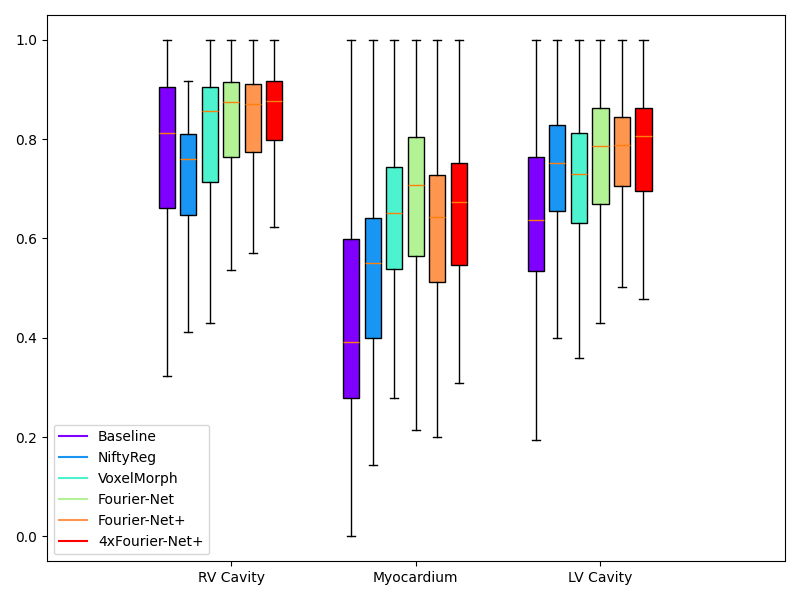
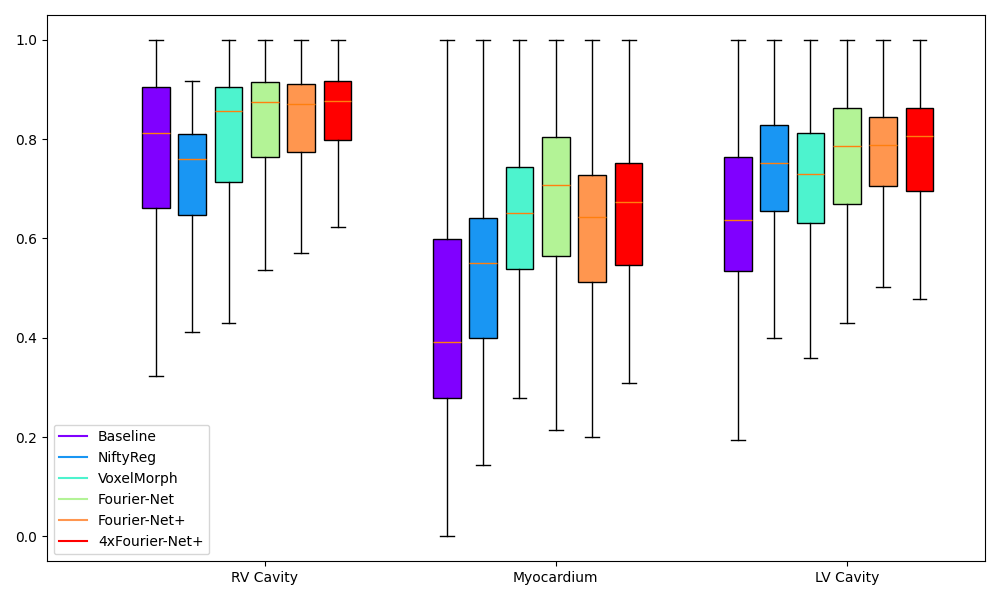
Optimized parameters for dice boxplots and generated boxplot again.

diff --git a/2D_CMR_Registration/CalculateAllDiceScores.py b/2D_CMR_Registration/CalculateAllDiceScores.py
@@ -23,6 +23,9 @@ parser.add_argument("--FT_size_y", type=int,
 parser.add_argument("--diffeo", type=int,
                     dest="diffeo", default=0, 
                     help="choose whether to use a diffeomorphic transform (1) or not (0)")
+parser.add_argument("--domain_sim", type=int,
+                    dest="domain_sim", default=0,
+                    help="choose which domain the similarity loss should be applied: image space (0) or k-space (1)")
 parser.add_argument("--mode", type=int, dest="mode", default=0,
                     help="choose dataset mode: fully sampled (0), 4x accelerated (1), 8x accelerated (2) or 10x accelerated (3)")
 opt = parser.parse_args()
@@ -31,6 +34,7 @@ start_channel = opt.start_channel
 FT_size = [opt.FT_size_x,opt.FT_size_y]
 mode = opt.mode
 diffeo = opt.diffeo
+domain_sim = opt.domain_sim
 
 dataset = 'ACDC'
 # load ACDC test data
@@ -58,33 +62,36 @@ modelpath_voxelmorph = path_voxelmorph + natsorted(listdir(path_voxelmorph))[-1]
 model_voxelmorph.load_state_dict(torch.load(modelpath_voxelmorph))
 model_voxelmorph.eval()
 
-path_f_net      = './ModelParameters-{}/Model_{}_Diffeo_{}_Loss_{}_Chan_{}_FT_{}-{}_Smth_{}_LR_{}_Mode_{}_Pth/'.format(dataset,0,0,1,start_channel,FT_size[0],FT_size[1],0.01,0.0001,mode)
-modelpath_f_net = path_f_net + natsorted(listdir(path_f_net))[-1]
+path_f_net      = './ModelParameters-{}/Model_{}_Diffeo_{}_Loss_{}_Chan_{}_FT_{}-{}_Smth_{}_LR_{}_Mode_{}_Sim_{}_Pth/'.format(dataset,0,0,1,start_channel,FT_size[0],FT_size[1],0.01,0.0001,mode,domain_sim)
+#modelpath_f_net = path_f_net + natsorted(listdir(path_f_net))[-1]
+modelpath_f_net = [f.path for f in scandir(path_f_net) if f.is_file() and not (f.name.find('Epoch_0006') == -1)][0]
 model_f_net.load_state_dict(torch.load(modelpath_f_net))
 model_f_net.eval()
 
-path_f_net_plus      = './ModelParameters-{}/Model_{}_Diffeo_{}_Loss_{}_Chan_{}_FT_{}-{}_Smth_{}_LR_{}_Mode_{}_Pth/'.format(dataset,1,0,1,start_channel,FT_size[0],FT_size[1],0.01,0.0001,mode)
-modelpath_f_net_plus = path_f_net_plus + natsorted(listdir(path_f_net_plus))[-1]
+path_f_net_plus      = './ModelParameters-{}/Model_{}_Diffeo_{}_Loss_{}_Chan_{}_FT_{}-{}_Smth_{}_LR_{}_Mode_{}_Sim_{}_Pth/'.format(dataset,1,0,1,start_channel,FT_size[0],FT_size[1],0.01,0.0001,mode,domain_sim)
+#modelpath_f_net_plus = path_f_net_plus + natsorted(listdir(path_f_net_plus))[-1]
+modelpath_f_net_plus = [f.path for f in scandir(path_f_net_plus) if f.is_file() and not (f.name.find('Epoch_0006') == -1)][0]
 model_f_net_plus.load_state_dict(torch.load(modelpath_f_net_plus))
 model_f_net_plus.eval()
 
-path_f_net_plus_cascade      = './ModelParameters-{}/Model_{}_Diffeo_{}_Loss_{}_Chan_{}_FT_{}-{}_Smth_{}_LR_{}_Mode_{}_Pth/'.format(dataset,2,0,1,start_channel,FT_size[0],FT_size[1],0.01,0.0001,mode)
-modelpath_f_net_plus_cascade = path_f_net_plus_cascade + natsorted(listdir(path_f_net_plus_cascade))[-1]
+path_f_net_plus_cascade      = './ModelParameters-{}/Model_{}_Diffeo_{}_Loss_{}_Chan_{}_FT_{}-{}_Smth_{}_LR_{}_Mode_{}_Sim_{}_Pth/'.format(dataset,2,0,1,start_channel,FT_size[0],FT_size[1],0.01,0.0001,mode,domain_sim)
+#modelpath_f_net_plus_cascade = path_f_net_plus_cascade + natsorted(listdir(path_f_net_plus_cascade))[-1]
+modelpath_f_net_plus_cascade = [f.path for f in scandir(path_f_net_plus_cascade) if f.is_file() and not (f.name.find('Epoch_0004') == -1)][0]
 model_f_net_plus_cascade.load_state_dict(torch.load(modelpath_f_net_plus_cascade))
 model_f_net_plus_cascade.eval()
 
 if diffeo == 1:
-    path_f_net_diff      = './ModelParameters-{}/Model_{}_Diffeo_{}_Loss_{}_Chan_{}_FT_{}-{}_Smth_{}_LR_{}_Mode_{}_Pth/'.format(dataset,0,1,1,start_channel,FT_size[0],FT_size[1],0.01,0.0001,mode)
+    path_f_net_diff      = './ModelParameters-{}/Model_{}_Diffeo_{}_Loss_{}_Chan_{}_FT_{}-{}_Smth_{}_LR_{}_Mode_{}_Sim_{}_Pth/'.format(dataset,0,1,1,start_channel,FT_size[0],FT_size[1],0.01,0.0001,mode,domain_sim)
     modelpath_f_net_diff = path_f_net_diff + natsorted(listdir(path_f_net_diff))[-1]
     model_f_net_diff.load_state_dict(torch.load(modelpath_f_net_diff))
     model_f_net_diff.eval()
 
-    path_f_net_plus_diff      = './ModelParameters-{}/Model_{}_Diffeo_{}_Loss_{}_Chan_{}_FT_{}-{}_Smth_{}_LR_{}_Mode_{}_Pth/'.format(dataset,1,1,1,start_channel,FT_size[0],FT_size[1],0.01,0.0001,mode)
+    path_f_net_plus_diff      = './ModelParameters-{}/Model_{}_Diffeo_{}_Loss_{}_Chan_{}_FT_{}-{}_Smth_{}_LR_{}_Mode_{}_Sim_{}_Pth/'.format(dataset,1,1,1,start_channel,FT_size[0],FT_size[1],0.01,0.0001,mode,domain_sim)
     modelpath_f_net_plus_diff = path_f_net_plus_diff + natsorted(listdir(path_f_net_plus_diff))[-1]
     model_f_net_plus_diff.load_state_dict(torch.load(modelpath_f_net_plus_diff))
     model_f_net_plus_diff.eval()
 
-    path_f_net_plus_cascade_diff      = './ModelParameters-{}/Model_{}_Diffeo_{}_Loss_{}_Chan_{}_FT_{}-{}_Smth_{}_LR_{}_Mode_{}_Pth/'.format(dataset,2,1,1,start_channel,FT_size[0],FT_size[1],0.01,0.0001,mode)
+    path_f_net_plus_cascade_diff      = './ModelParameters-{}/Model_{}_Diffeo_{}_Loss_{}_Chan_{}_FT_{}-{}_Smth_{}_LR_{}_Mode_{}_Sim_{}_Pth/'.format(dataset,2,1,1,start_channel,FT_size[0],FT_size[1],0.01,0.0001,mode,domain_sim)
     modelpath_f_net_plus_cascade_diff = path_f_net_plus_cascade_diff + natsorted(listdir(path_f_net_plus_cascade_diff))[-1]
     model_f_net_plus_cascade_diff.load_state_dict(torch.load(modelpath_f_net_plus_cascade_diff))
     model_f_net_plus_cascade_diff.eval()

diff --git a/2D_CMR_Registration/Boxplots_DiceScores.py b/2D_CMR_Registration/Boxplots_DiceScores.py
@@ -9,32 +9,24 @@ import warnings
 warnings.filterwarnings("ignore")
 
 parser = ArgumentParser()
-parser.add_argument("--start_channel", type=int, dest="start_channel", default=8,
-                    help="number of start channels")
-parser.add_argument("--FT_size_x", type=int,
-                    dest="FT_size_x", default=24,
-                    help="choose size x of FT crop: Should be smaller than 40.")
-parser.add_argument("--FT_size_y", type=int,
-                    dest="FT_size_y", default=24,
-                    help="choose size y of FT crop: Should be smaller than 84.")
+parser.add_argument("--diffeo", type=int,
+                    dest="diffeo", default=0, 
+                    help="choose whether to use a diffeomorphic transform (1) or not (0)")
 parser.add_argument("--mode", type=int, dest="mode", default='0',
                     help="choose dataset mode: fully sampled (0), 4x accelerated (1), 8x accelerated (2) or 10x accelerated (3)")
 opt = parser.parse_args()
 
-start_channel = opt.start_channel
-FT_size = [opt.FT_size_x,opt.FT_size_y]
 mode = opt.mode
+diffeo = opt.diffeo
 
 dataset = 'ACDC'
-input_shape = [216,256]
-diffeo = 0
-device = torch.device("cuda" if torch.cuda.is_available() else "cpu") 
-transform = SpatialTransform().to(device)
-transform_voxelmorph = SpatialTransformer(input_shape, mode = 'nearest').to(device)
 csv_name = './TestResults-{}/DiceScores_Mode_{}.csv'.format(dataset,mode)
 
 # init Dice score 6 methods (9 with Diff-versions), 4 labels and 224 data points
-DICE_test = np.zeros([6,4,224]) #9
+if diffeo == 1:
+    DICE_test = np.zeros([9,4,224])
+else:
+    DICE_test = np.zeros([6,4,224])    
 
 # get data for the models
 with open(csv_name,'r') as csvfile: 
@@ -47,12 +39,19 @@ with open(csv_name,'r') as csvfile:
 
 # create labels for the x axis
 labels = ['RV Cavity', 'Myocardium', 'LV Cavity'] #'Background', 
-# create legend 
-legend = ['Baseline','NiftyReg','VoxelMorph','Fourier-Net','Fourier-Net+','4xFourier-Net+'] #,'Diff-Fourier-Net','Diff-Fourier-Net+','Diff-4xFourier-Net+'
+
+# create legend and init offsets so that plots do not overlap
+if diffeo == 1:
+    legend = ['Baseline','NiftyReg','VoxelMorph','Fourier-Net','Fourier-Net+','4xFourier-Net+','Diff-Fourier-Net','Diff-Fourier-Net+','Diff-4xFourier-Net+']
+    offsets = np.arange(start=-0.9,stop=0.9,step=1.8/DICE_test.shape[0])
+    width = 0.175
+else:
+    legend = ['Baseline','NiftyReg','VoxelMorph','Fourier-Net','Fourier-Net+','4xFourier-Net+']    
+    offsets = np.arange(start=-0.75,stop=0.75,step=1.5/DICE_test.shape[0])
+    width = 0.19
+
 # create path to save the boxplot to
 save_path = '/home/jmeyer/storage/students/janmeyer_711878/Master-Arbeit/Thesis/Images/Boxplot_DiceScores_FullySampled.png'
-# init offsets so that plots do not overlap
-offsets = np.arange(start=-0.9,stop=0.9,step=1.8/DICE_test.shape[0])
-#print('offsets: ',offsets)
+
 # create boxplot for Dice scores (without background)
-create_boxplot(savename=save_path, data=DICE_test[:,1:4,:], labels=labels, legend=legend, figure_size=(10, 6), offsets=offsets, width=0.175)
+create_boxplot(savename=save_path, data=DICE_test[:,1:4,:], labels=labels, legend=legend, figure_size=(10, 6), offsets=offsets, width=width)

diff --git a/2D_CMR_Registration/Functions.py b/2D_CMR_Registration/Functions.py
@@ -801,7 +801,7 @@ def log_TrainTest(wandb, model, model_name, diffeo_name, dataset, FT_size, learn
             #wandb.log_model(path=model_dir, name=modelname)
 
             # save image
-            sample_path = join(model_dir_png, 'Epoch_{:04d}-images.jpg'.format(epoch))
+            sample_path = join(model_dir_png, 'Epoch_{:04d}-images.jpg'.format(epoch+1))
             save_flow(mov_img, fix_img, warped_mov_img, grid.permute(0, 3, 1, 2), sample_path)
             if dataset == 'CMRxRecon':
                 print("epoch {:d}/{:d} - SSIM_val: {:.5f}, MSE_val: {:.6f}".format(epoch+1, epochs, Mean_SSIM, Mean_MSE))
@@ -810,7 +810,7 @@ def log_TrainTest(wandb, model, model_name, diffeo_name, dataset, FT_size, learn
 
             if earlyStop:    
                 # stop training if metrics stop improving for three epochs (only on the first run)
-                if counter_earlyStopping == 3:
+                if counter_earlyStopping == 5:
                     epochs = epoch+1      # save number of epochs for other runs
                     break
                 
@@ -1059,8 +1059,8 @@ def create_boxplot(savename=None, title=None, data=None, labels=None, legend=Non
         plt.plot([], c=color[i], label=legend[i])
     
     plt.legend()
-    plt.xticks(range(0, len(labels) * 2, 2), labels)
-    plt.xlim(-2, len(labels)*2)
+    plt.xticks(range(0, len(labels)*2, 2), labels)
+    plt.xlim(-1.5, len(labels)*1.65)
     plt.tight_layout()
     
     if title is not None:
